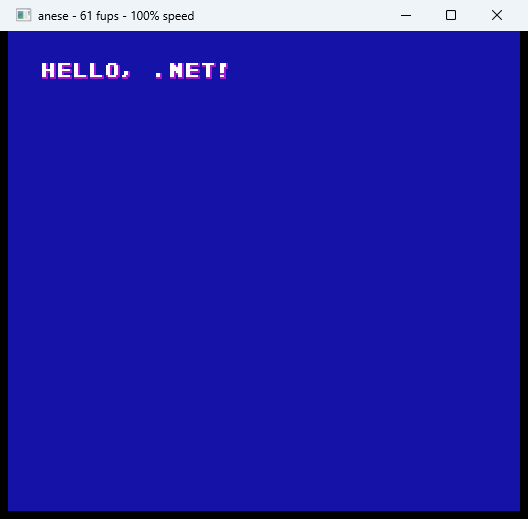
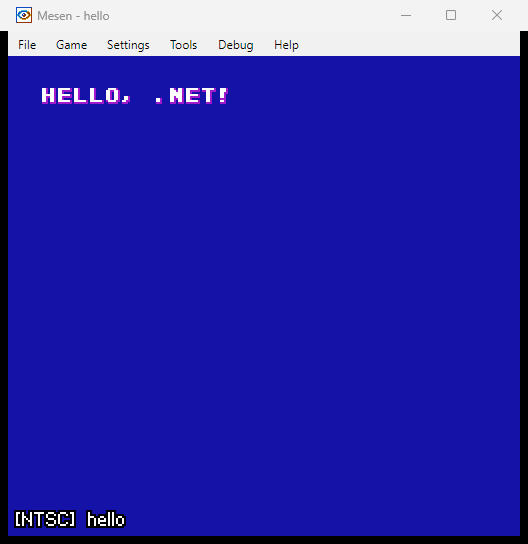
Address review: add Windows guard, fix comment, update samples
- Add OperatingSystem.IsWindows() check to screenshot-nes.cs and
  record-nes.cs since they use Win32 APIs for window capture
- Fix misleading 'child process' comment in record-all-samples.cs
- Update hello.png screenshot and fade.gif recording with Mesen

Changed region(s): [[0.0, 0.0, 1.0, 0.2158], [0.0303, 0.9249, 0.2424, 0.9865]]

diff --git a/scripts/screenshot-nes.cs b/scripts/screenshot-nes.cs
@@ -13,6 +13,12 @@ string romPath = args.Length > 0 ? args[0] : throw new Exception("Usage: dotnet 
 int delayMs = args.Length > 1 ? int.Parse(args[1]) : 3000;
 string outputPath = args.Length > 2 ? args[2] : "screenshot.png";
 
+if (!OperatingSystem.IsWindows())
+{
+    Console.Error.WriteLine("ERROR: This script requires Windows (uses Win32 APIs for window capture).");
+    return;
+}
+
 // Find Mesen by querying MSBuild for the RunCommand property
 string repoRoot = Path.GetFullPath(".");
 string sampleCsproj = Directory.GetFiles(Path.Combine(repoRoot, "samples", "hello"), "*.csproj").FirstOrDefault()

diff --git a/scripts/record-nes.cs b/scripts/record-nes.cs
@@ -48,6 +48,12 @@ if (romPath == null)
 
 outputPath ??= gifMode ? "recording.gif" : "screenshot.png";
 
+if (!OperatingSystem.IsWindows())
+{
+    Console.Error.WriteLine("ERROR: This script requires Windows (uses Win32 APIs for window capture).");
+    return;
+}
+
 // Find Mesen by querying MSBuild for the RunCommand property
 string repoRoot = Path.GetFullPath(".");
 string sampleCsproj = Directory.GetFiles(Path.Combine(repoRoot, "samples", "hello"), "*.csproj").FirstOrDefault()

diff --git a/scripts/record-all-samples.cs b/scripts/record-all-samples.cs
@@ -59,7 +59,7 @@ foreach (var sampleDir in sampleDirs)
 
     Thread.Sleep(5000); // Wait for build + emulator boot
 
-    // Find the Mesen emulator window (child process of dotnet run)
+    // Find the Mesen emulator window (spawned by running the sample)
     IntPtr hwnd = FindMesenWindow();
     if (hwnd == IntPtr.Zero)
     {
